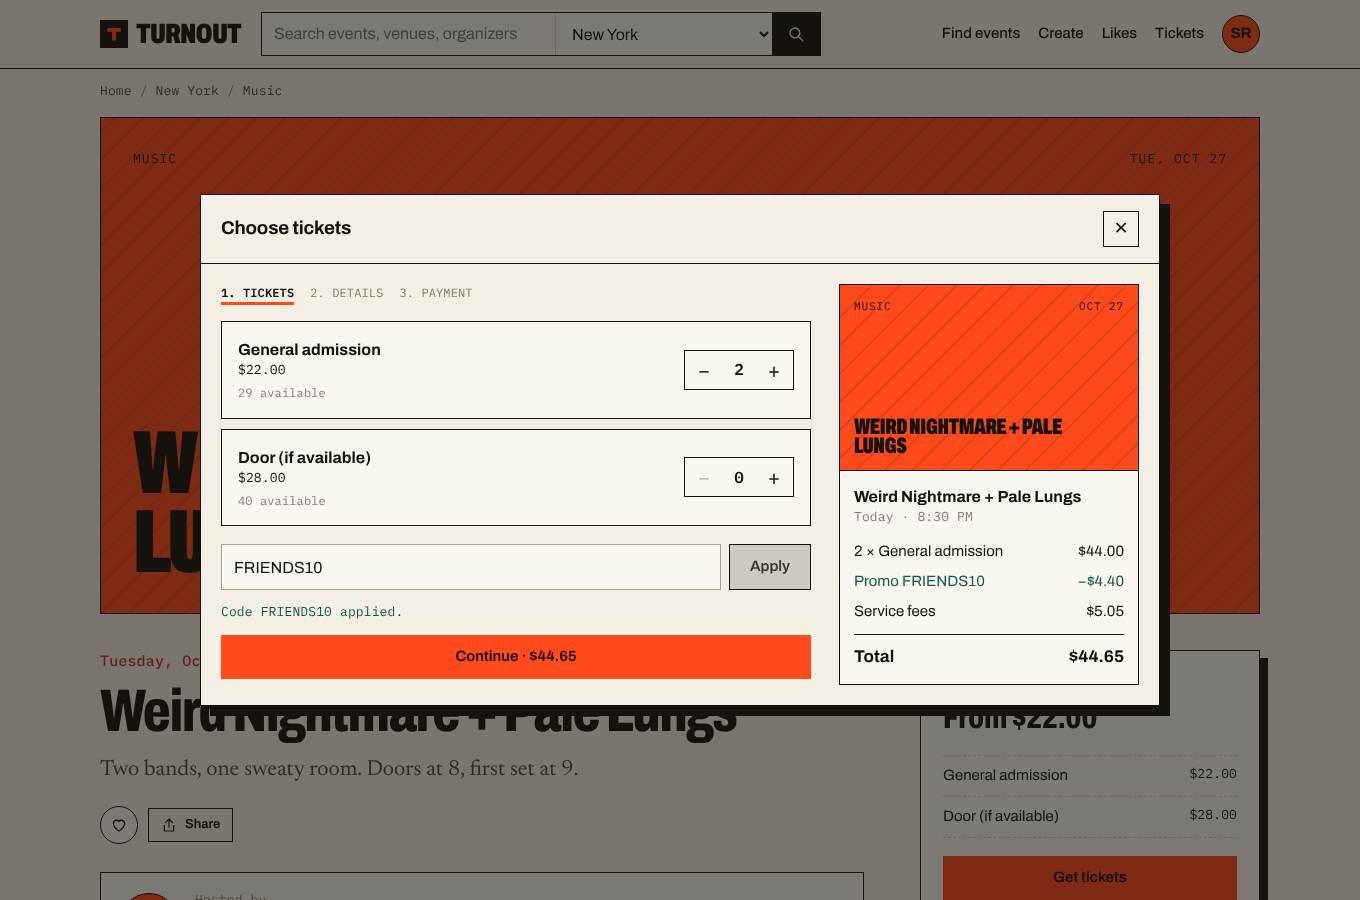
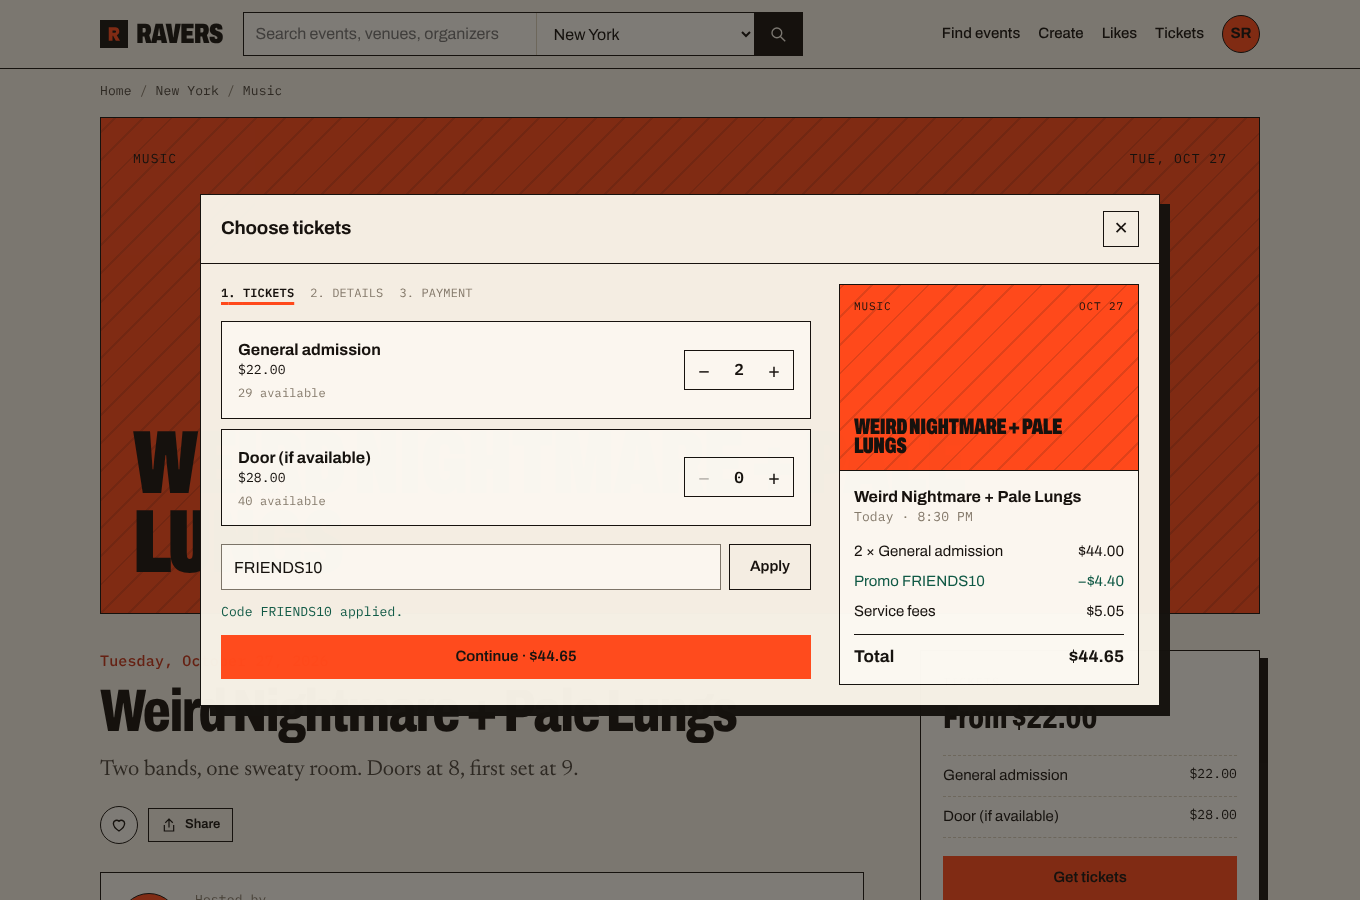
Rename site to Ravers
Update branding, logo mark, favicon, demo account email, storage keys
and README screenshots.

Claude-Session: https://claude.ai/code/session_01HtwjvgGW9hgRqwi4QX1kuG

diff --git a/src/components/Layout.tsx b/src/components/Layout.tsx
@@ -124,11 +124,11 @@ function Header() {
       </div>
       <header className="header">
         <div className="wrap">
-          <Link to="/" className="logo" aria-label="Turnout home">
+          <Link to="/" className="logo" aria-label="Ravers home">
             <span className="logo-mark">
               <Mark />
             </span>
-            Turnout
+            Ravers
           </Link>
           <SearchBar className="desk" />
           <nav className="nav">
@@ -169,7 +169,7 @@ function Footer() {
       <div className="wrap">
         <div className="footer-grid">
           <div>
-            <h4>Turnout</h4>
+            <h4>Ravers</h4>
             <p style={{ maxWidth: 340, margin: 0, color: '#d8cfbd' }}>
               A ticketing platform for people who put on things. Discover what’s on, or publish your own event in a few minutes.
             </p>
@@ -214,7 +214,7 @@ function Footer() {
         </div>
         <div className="footer-big">Show up.</div>
         <div className="footer-base">
-          <span>© {new Date().getFullYear()} Turnout. Demo project — no real payments are taken.</span>
+          <span>© {new Date().getFullYear()} Ravers. Demo project — no real payments are taken.</span>
           <span>
             <Link to="/help">Help</Link> · <Link to="/help#terms">Terms</Link> · <Link to="/help#privacy">Privacy</Link>
           </span>

diff --git a/index.html b/index.html
@@ -3,7 +3,7 @@
   <head>
     <meta charset="UTF-8" />
     <meta name="viewport" content="width=device-width, initial-scale=1.0" />
-    <title>Turnout — find things to do, sell tickets to yours</title>
+    <title>Ravers — find things to do, sell tickets to yours</title>
     <meta name="description" content="Discover concerts, workshops, food nights and meetups near you, or publish your own event and sell tickets." />
     <link rel="icon" href="/favicon.svg" type="image/svg+xml" />
     <link rel="preconnect" href="https://fonts.googleapis.com" />

diff --git a/src/pages/Auth.tsx b/src/pages/Auth.tsx
@@ -64,11 +64,11 @@ export function Login() {
         <button className="btn accent block">Log in</button>
       </form>
       <div className="demo-hint mono">
-        Demo account: demo@turnout.test / demo1234{' '}
+        Demo account: demo@ravers.test / demo1234{' '}
         <button
           className="linkbtn"
           onClick={() => {
-            setEmail('demo@turnout.test');
+            setEmail('demo@ravers.test');
             setPassword('demo1234');
           }}
         >

diff --git a/src/pages/Static.tsx b/src/pages/Static.tsx
@@ -23,7 +23,7 @@ const FAQ: { section: string; id?: string; items: [string, string][] }[] = [
   {
     section: 'Terms',
     id: 'terms',
-    items: [['Is this a real ticketing service?', 'No. Turnout is a demo application. No payments are processed and data is stored only in your browser.']],
+    items: [['Is this a real ticketing service?', 'No. Ravers is a demo application. No payments are processed and data is stored only in your browser.']],
   },
   {
     section: 'Privacy',

diff --git a/src/pages/Tickets.tsx b/src/pages/Tickets.tsx
@@ -125,7 +125,7 @@ export function TicketDetail() {
                 )}
               </div>
               <div className="stub-qr">
-                <QR value={`TURNOUT:${order.id}:${a.id}`} />
+                <QR value={`RAVERS:${order.id}:${a.id}`} />
                 <span className="mono">{a.id.toUpperCase()}</span>
                 {a.checkedIn && <span className="pill ok">Checked in</span>}
               </div>

diff --git a/src/lib/ics.ts b/src/lib/ics.ts
@@ -8,9 +8,9 @@ export function downloadIcs(e: EventItem) {
   const body = [
     'BEGIN:VCALENDAR',
     'VERSION:2.0',
-    'PRODID:-//Turnout//Events//EN',
+    'PRODID:-//Ravers//Events//EN',
     'BEGIN:VEVENT',
-    `UID:${e.id}@turnout`,
+    `UID:${e.id}@ravers`,
     `DTSTAMP:${stamp(new Date().toISOString())}`,
     `DTSTART:${stamp(e.start)}`,
     `DTEND:${stamp(e.end)}`,

diff --git a/src/lib/store.tsx b/src/lib/store.tsx
@@ -3,8 +3,8 @@ import type { DB, EventItem, Order, Organizer, User } from './types';
 import { createSeed } from './seed';
 import { hashPassword, startOfDay, uid } from './format';
 
-const KEY = 'turnout:db:v1';
-const SEED_KEY = 'turnout:seeded-at';
+const KEY = 'ravers:db:v1';
+const SEED_KEY = 'ravers:seeded-at';
 
 function load(): DB {
   try {

diff --git a/src/components/Icons.tsx b/src/components/Icons.tsx
@@ -48,6 +48,6 @@ export const RefundIcon = ({ size = 18 }: P) =>
 
 export const Mark = () => (
   <svg viewBox="0 0 24 24" aria-hidden="true">
-    <path d="M3 4h18v5h-6.5v12h-5V9H3z" fill="#ff4a1c" />
+    <path d="M5 3h8.5a5.5 5.5 0 0 1 2.2 10.55L20 21h-5.6l-3.6-6.8H10V21H5zm5 4.2v3.2h3.2a1.6 1.6 0 0 0 0-3.2z" fill="#ff4a1c" />
   </svg>
 );

diff --git a/src/lib/seed.ts b/src/lib/seed.ts
@@ -129,7 +129,7 @@ export function createSeed(): DB {
   const demoUser = {
     id: 'u-demo',
     name: 'Sam Rivera',
-    email: 'demo@turnout.test',
+    email: 'demo@ravers.test',
     passwordHash: hashPassword('demo1234'),
     city: 'New York',
     interests: ['music', 'food-drink', 'tech'] as CategoryId[],

diff --git a/README.md b/README.md
@@ -1,4 +1,4 @@
-# Turnout
+# Ravers
 
 An event discovery and ticketing web app: browse what's on, buy tickets, and run your own events.
 
@@ -38,6 +38,6 @@ npm run dev       # http://localhost:5173
 npm run build     # production build in dist/
 ```
 
-Demo login: `demo@turnout.test` / `demo1234`. Promo code `FRIENDS10` works on events that have one (e.g. "Weird Nightmare + Pale Lungs").
+Demo login: `demo@ravers.test` / `demo1234`. Promo code `FRIENDS10` works on events that have one (e.g. "Weird Nightmare + Pale Lungs").
 
 When deploying, route all paths to `index.html` (the app uses client-side routing). `public/_redirects` handles this on Netlify and `vercel.json` on Vercel.
